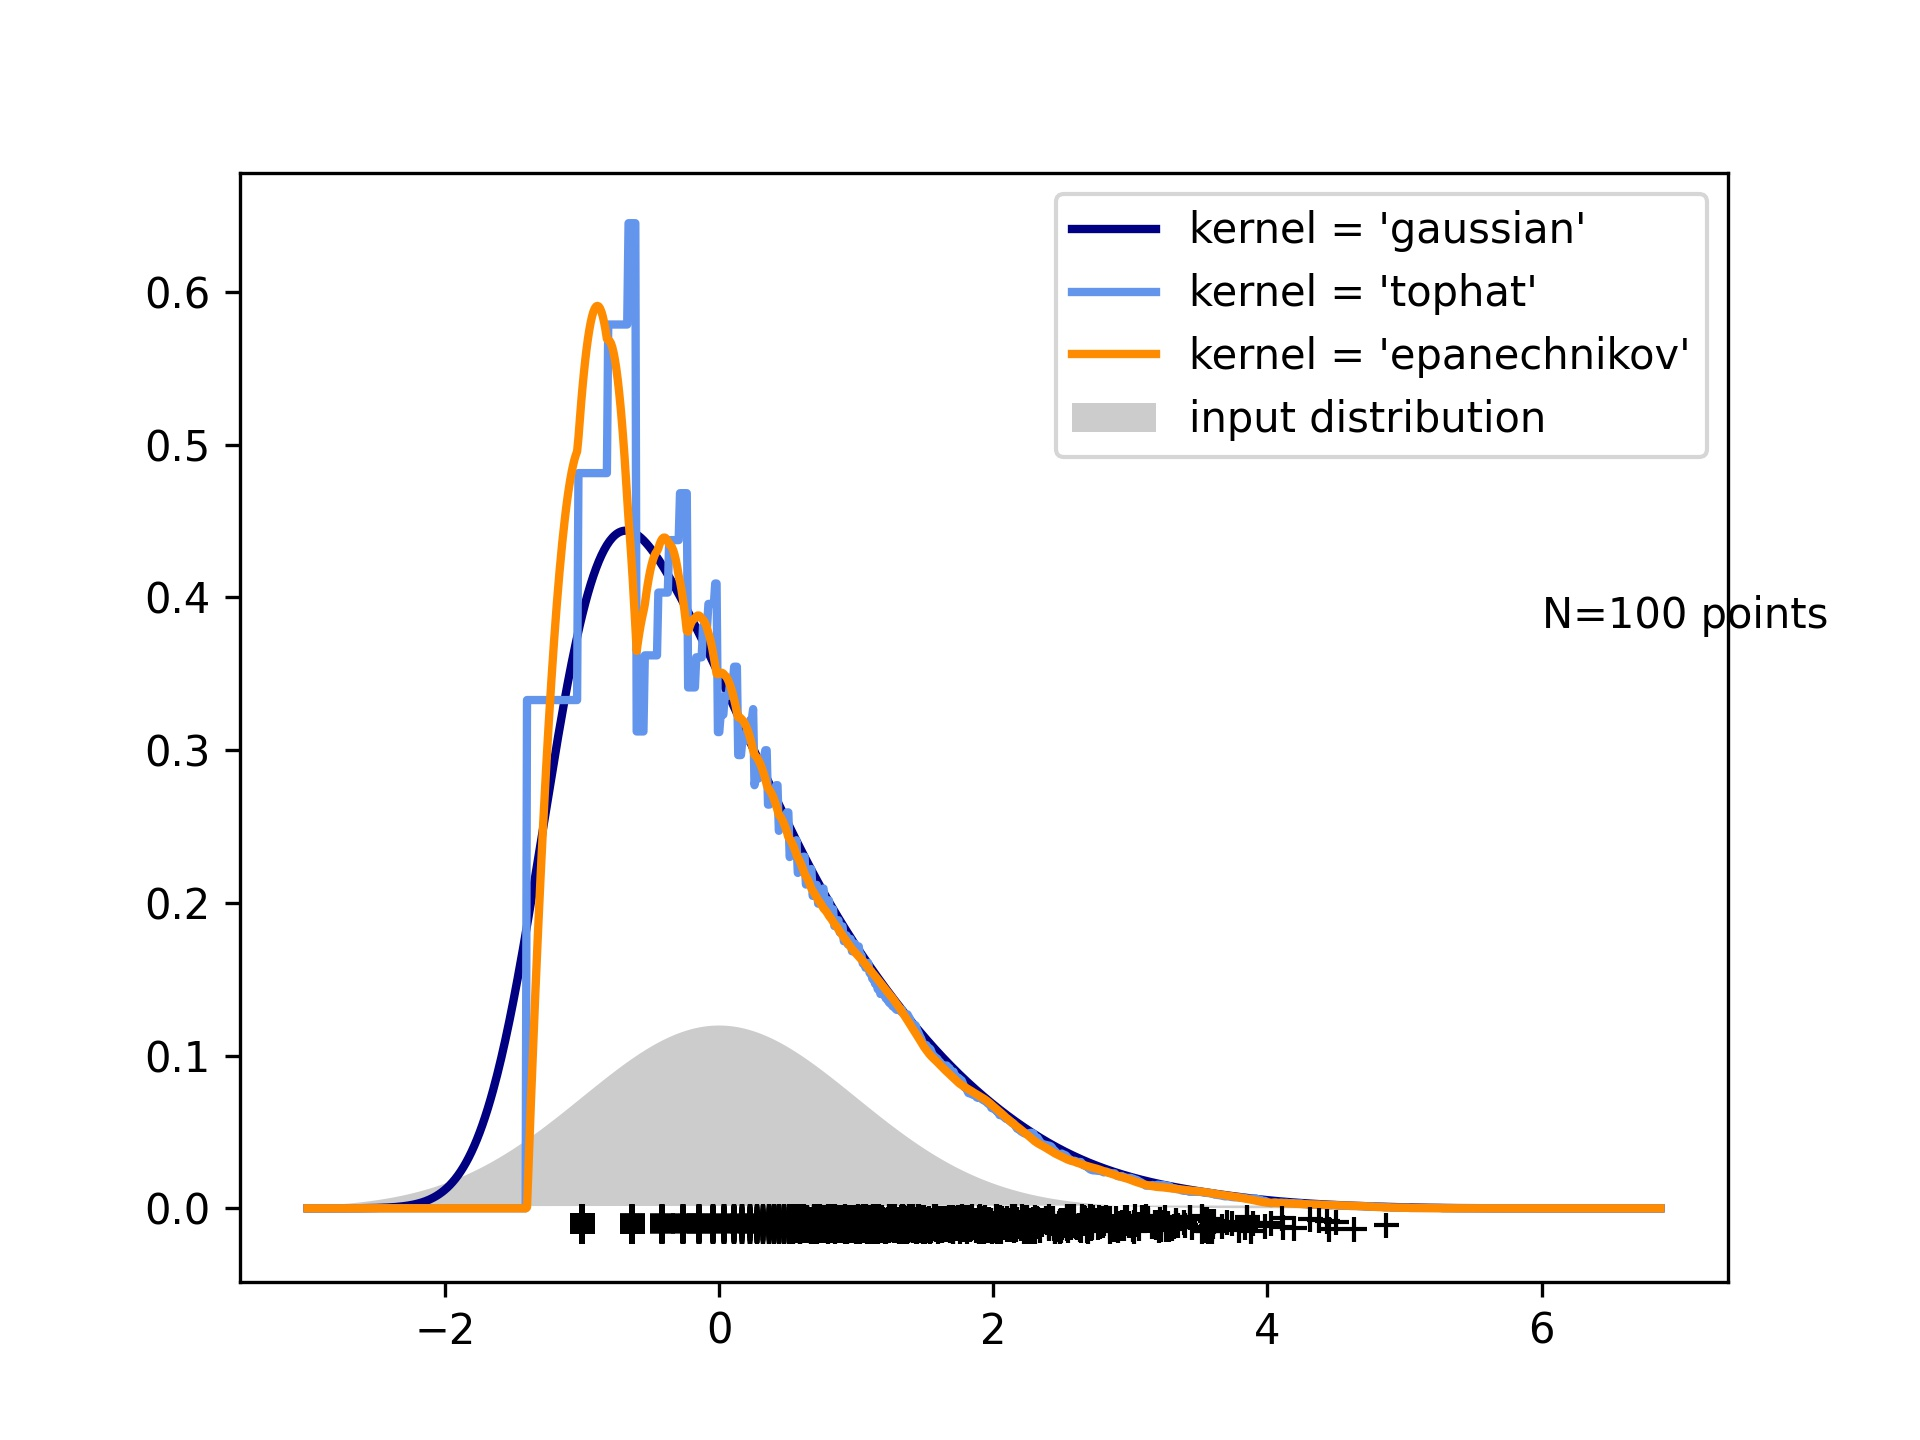
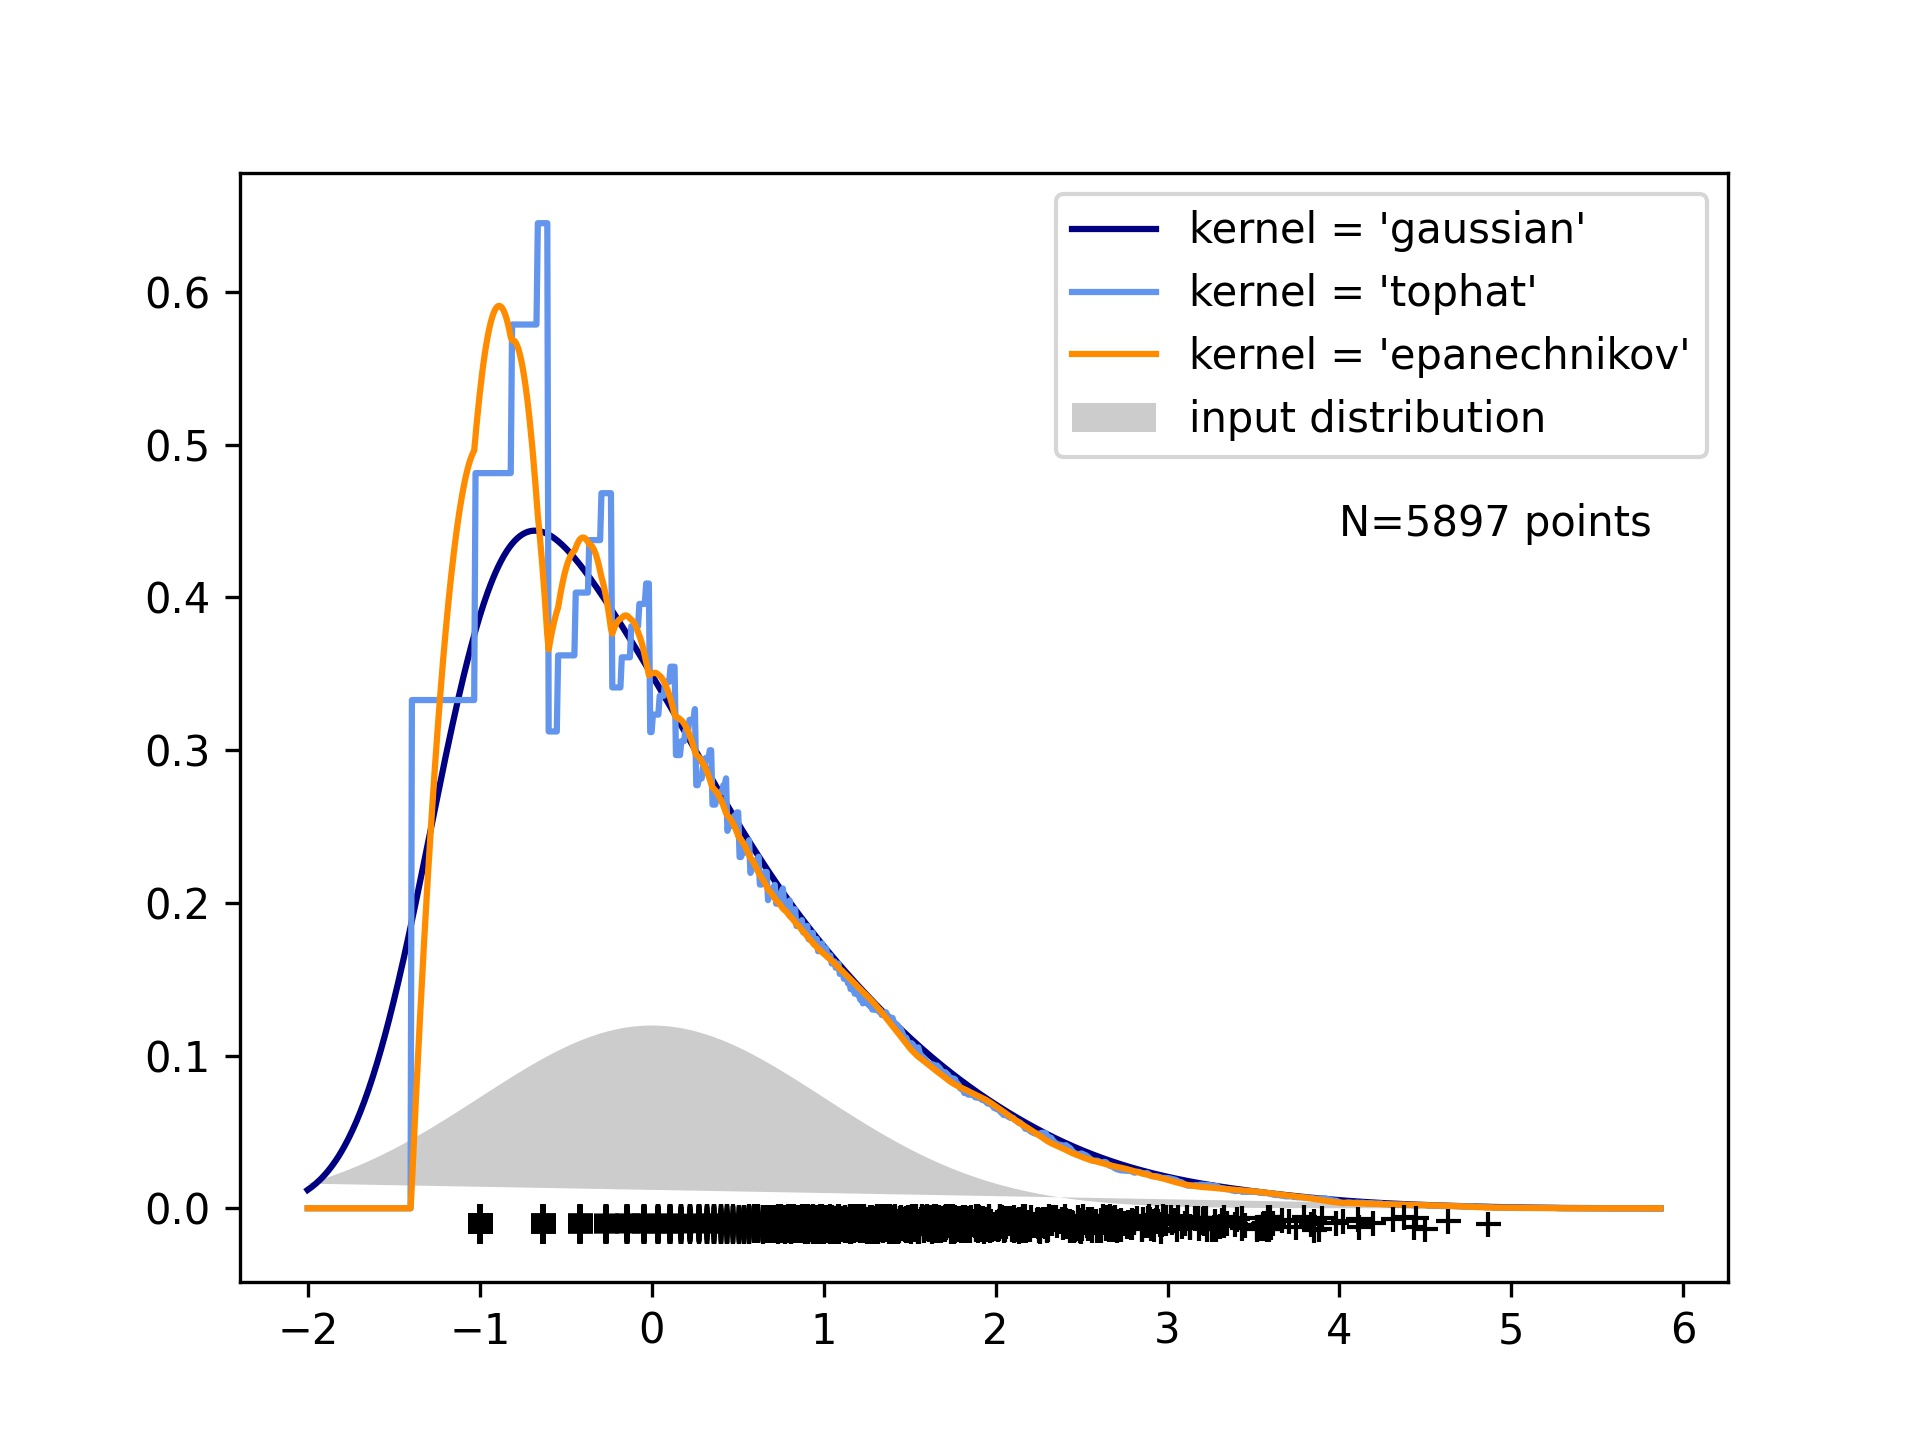
fetch changes

diff --git a/main/kde_classifier.py b/main/kde_classifier.py
@@ -8,6 +8,8 @@ matplotlib.use('Agg')
 import matplotlib.pyplot as plt
 
 from sklearn.neighbors import KernelDensity
+from scipy.signal import argrelextrema
+
 from modules.gsheet_api import GsheetApi
 from functions.helpers import Scaler, transform_data
 
@@ -36,15 +38,12 @@ raw_locality_mineral_pairs, log_locality_mineral_pairs, scaled_locality_1d = tra
 
 # Kernel Density Estimate on 1-d data
 
-N = 100
-
-X = locs['locality_counts'].to_numpy(dtype=int)
-X.sort()
-X = X.reshape(-1, 1)
+N = len(locs)
 
 X = scaled_locality_1d
+x_min, x_max = scaled_locality_1d.min(), scaled_locality_1d.max()
 
-X_plot = np.linspace(scaled_locality_1d.min() - 2, scaled_locality_1d.max() + 2, 1000)[:, np.newaxis]
+X_plot = np.linspace(x_min - 1, x_max + 1, 1000)[:, np.newaxis]
 
 true_dens = 0.3 * norm(0, 1).pdf(X_plot[:, 0]) + 0.7 * norm(10, 1).pdf(X_plot[:, 0])
 
@@ -52,7 +51,7 @@ fig, ax = plt.subplots()
 ax.fill(X_plot[:, 0], true_dens, fc="black", alpha=0.2, label="input distribution")
 colors = ["navy", "cornflowerblue", "darkorange"]
 kernels = ["gaussian", "tophat", "epanechnikov"]
-lw = 2
+lw = 1.5
 
 for color, kernel in zip(colors, kernels):
     kde = KernelDensity(kernel=kernel, bandwidth=0.4).fit(X)
@@ -66,7 +65,7 @@ for color, kernel in zip(colors, kernels):
         label="kernel = '{0}'".format(kernel),
     )
 
-ax.text(6, 0.38, "N={0} points".format(N))
+ax.text(4, 0.44, "N={0} points".format(N))
 
 ax.legend(loc="upper right")
 ax.plot(X[:, 0], -0.005 - 0.01 * np.random.random(X.shape[0]), "+k")
@@ -75,3 +74,34 @@ ax.plot(X[:, 0], -0.005 - 0.01 * np.random.random(X.shape[0]), "+k")
 plt.savefig(f"figures/kde/classification_output.jpeg", dpi=300, format='jpeg')
 
 plt.close()
+
+
+## Get decision boundaries
+
+X = scaled_locality_1d
+x_min, x_max = scaled_locality_1d.min(), scaled_locality_1d.max()
+
+X_plot = np.linspace(x_min - 1, x_max + 1, 1000)[:, np.newaxis]
+
+kde = KernelDensity(kernel="epanechnikov", bandwidth=0.4)
+kde.fit(X)
+
+log_dens = kde.score_samples(X_plot)
+
+mi, ma = argrelextrema(log_dens, np.less)[0], argrelextrema(log_dens, np.greater)[0]
+clusters = np.concatenate([scaled_locality_1d[mi], scaled_locality_1d[ma]])
+
+
+# Obtain labels for each point in test array. Use last trained model.
+
+log_descaled = Scaler.descale_features(clusters.reshape(-1,1))
+
+descaled = np.exp(log_descaled)
+descaled = np.sort(descaled, axis=0)
+descaled = descaled.ravel()
+
+locs_classes = pd.DataFrame({ 'locality_counts': descaled, 'predicted': xx_predicated })
+
+locs_classes = locs_classes.groupby('predicted')[['locality_counts']].agg(lambda x: str(np.floor(x.min())) + '-' + str(np.floor(x.max())))
+
+locs_classes.sort_values('locality_counts', inplace=True)

diff --git a/main/quantiles_classifier.py b/main/quantiles_classifier.py
@@ -2,7 +2,6 @@ import pandas as pd
 import numpy as np
 
 from modules.gsheet_api import GsheetApi
-from functions.helpers import Scaler, transform_data
 
 # -*- coding: utf-8 -*-
 """
@@ -13,7 +12,6 @@ using k-means clustering
 
 
 GsheetApi = GsheetApi()
-Scaler = Scaler()
 GsheetApi.run_main()
 
 locs = GsheetApi.locs.copy()
